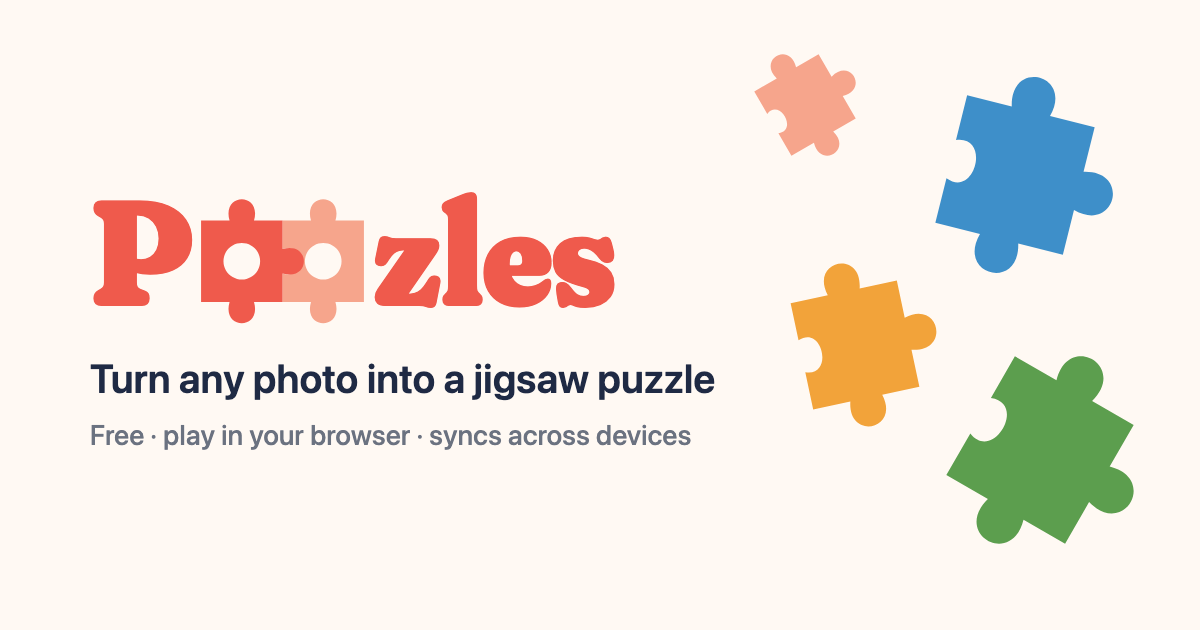
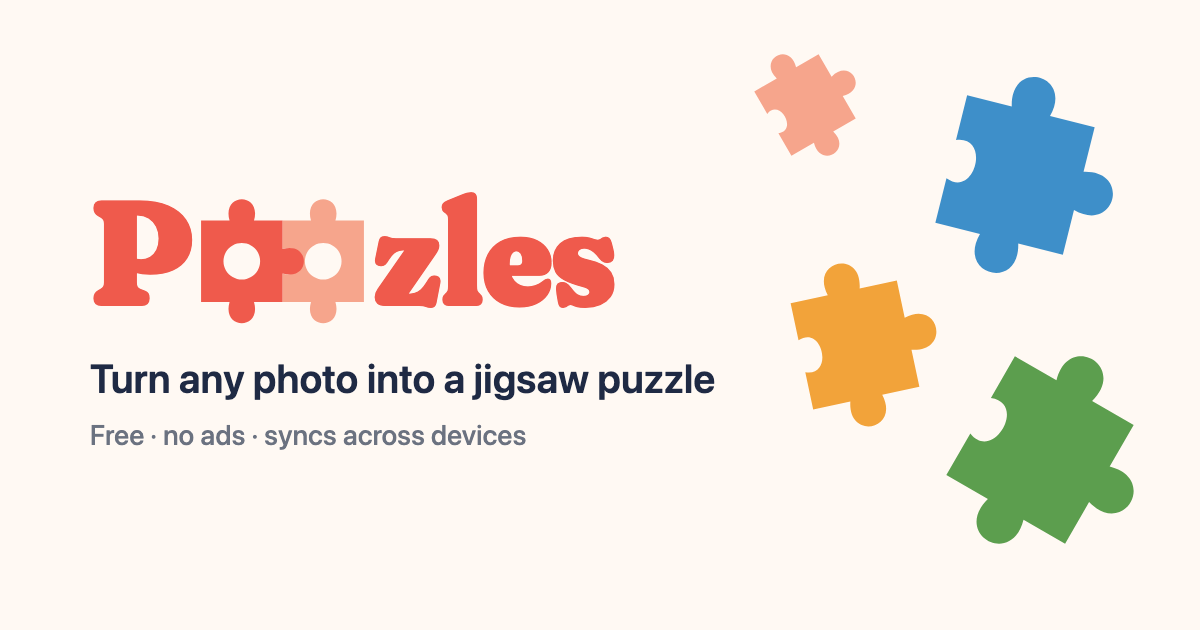
Preview card: "Free · no ads · syncs across devices"

Changed region(s): [[0.1233, 0.6635, 0.5858, 0.7238]]

diff --git a/public/index.html b/public/index.html
@@ -9,13 +9,13 @@
   <meta name="apple-mobile-web-app-title" content="Poozles">
   <meta name="theme-color" content="#fff9f3">
   <title>Poozles</title>
-  <meta name="description" content="Turn any photo into a jigsaw puzzle. Free, plays in your browser, syncs across devices.">
+  <meta name="description" content="Turn any photo into a jigsaw puzzle. Free, no ads, syncs across devices.">
   <meta property="og:type" content="website">
   <meta property="og:site_name" content="Poozles">
   <meta property="og:title" content="Poozles">
-  <meta property="og:description" content="Turn any photo into a jigsaw puzzle. Free, plays in your browser, syncs across devices.">
+  <meta property="og:description" content="Turn any photo into a jigsaw puzzle. Free, no ads, syncs across devices.">
   <meta property="og:url" content="https://poozles.app/">
-  <meta property="og:image" content="https://poozles.app/og.png">
+  <meta property="og:image" content="https://poozles.app/og.png?v=2">
   <meta property="og:image:width" content="1200">
   <meta property="og:image:height" content="630">
   <meta name="twitter:card" content="summary_large_image">
